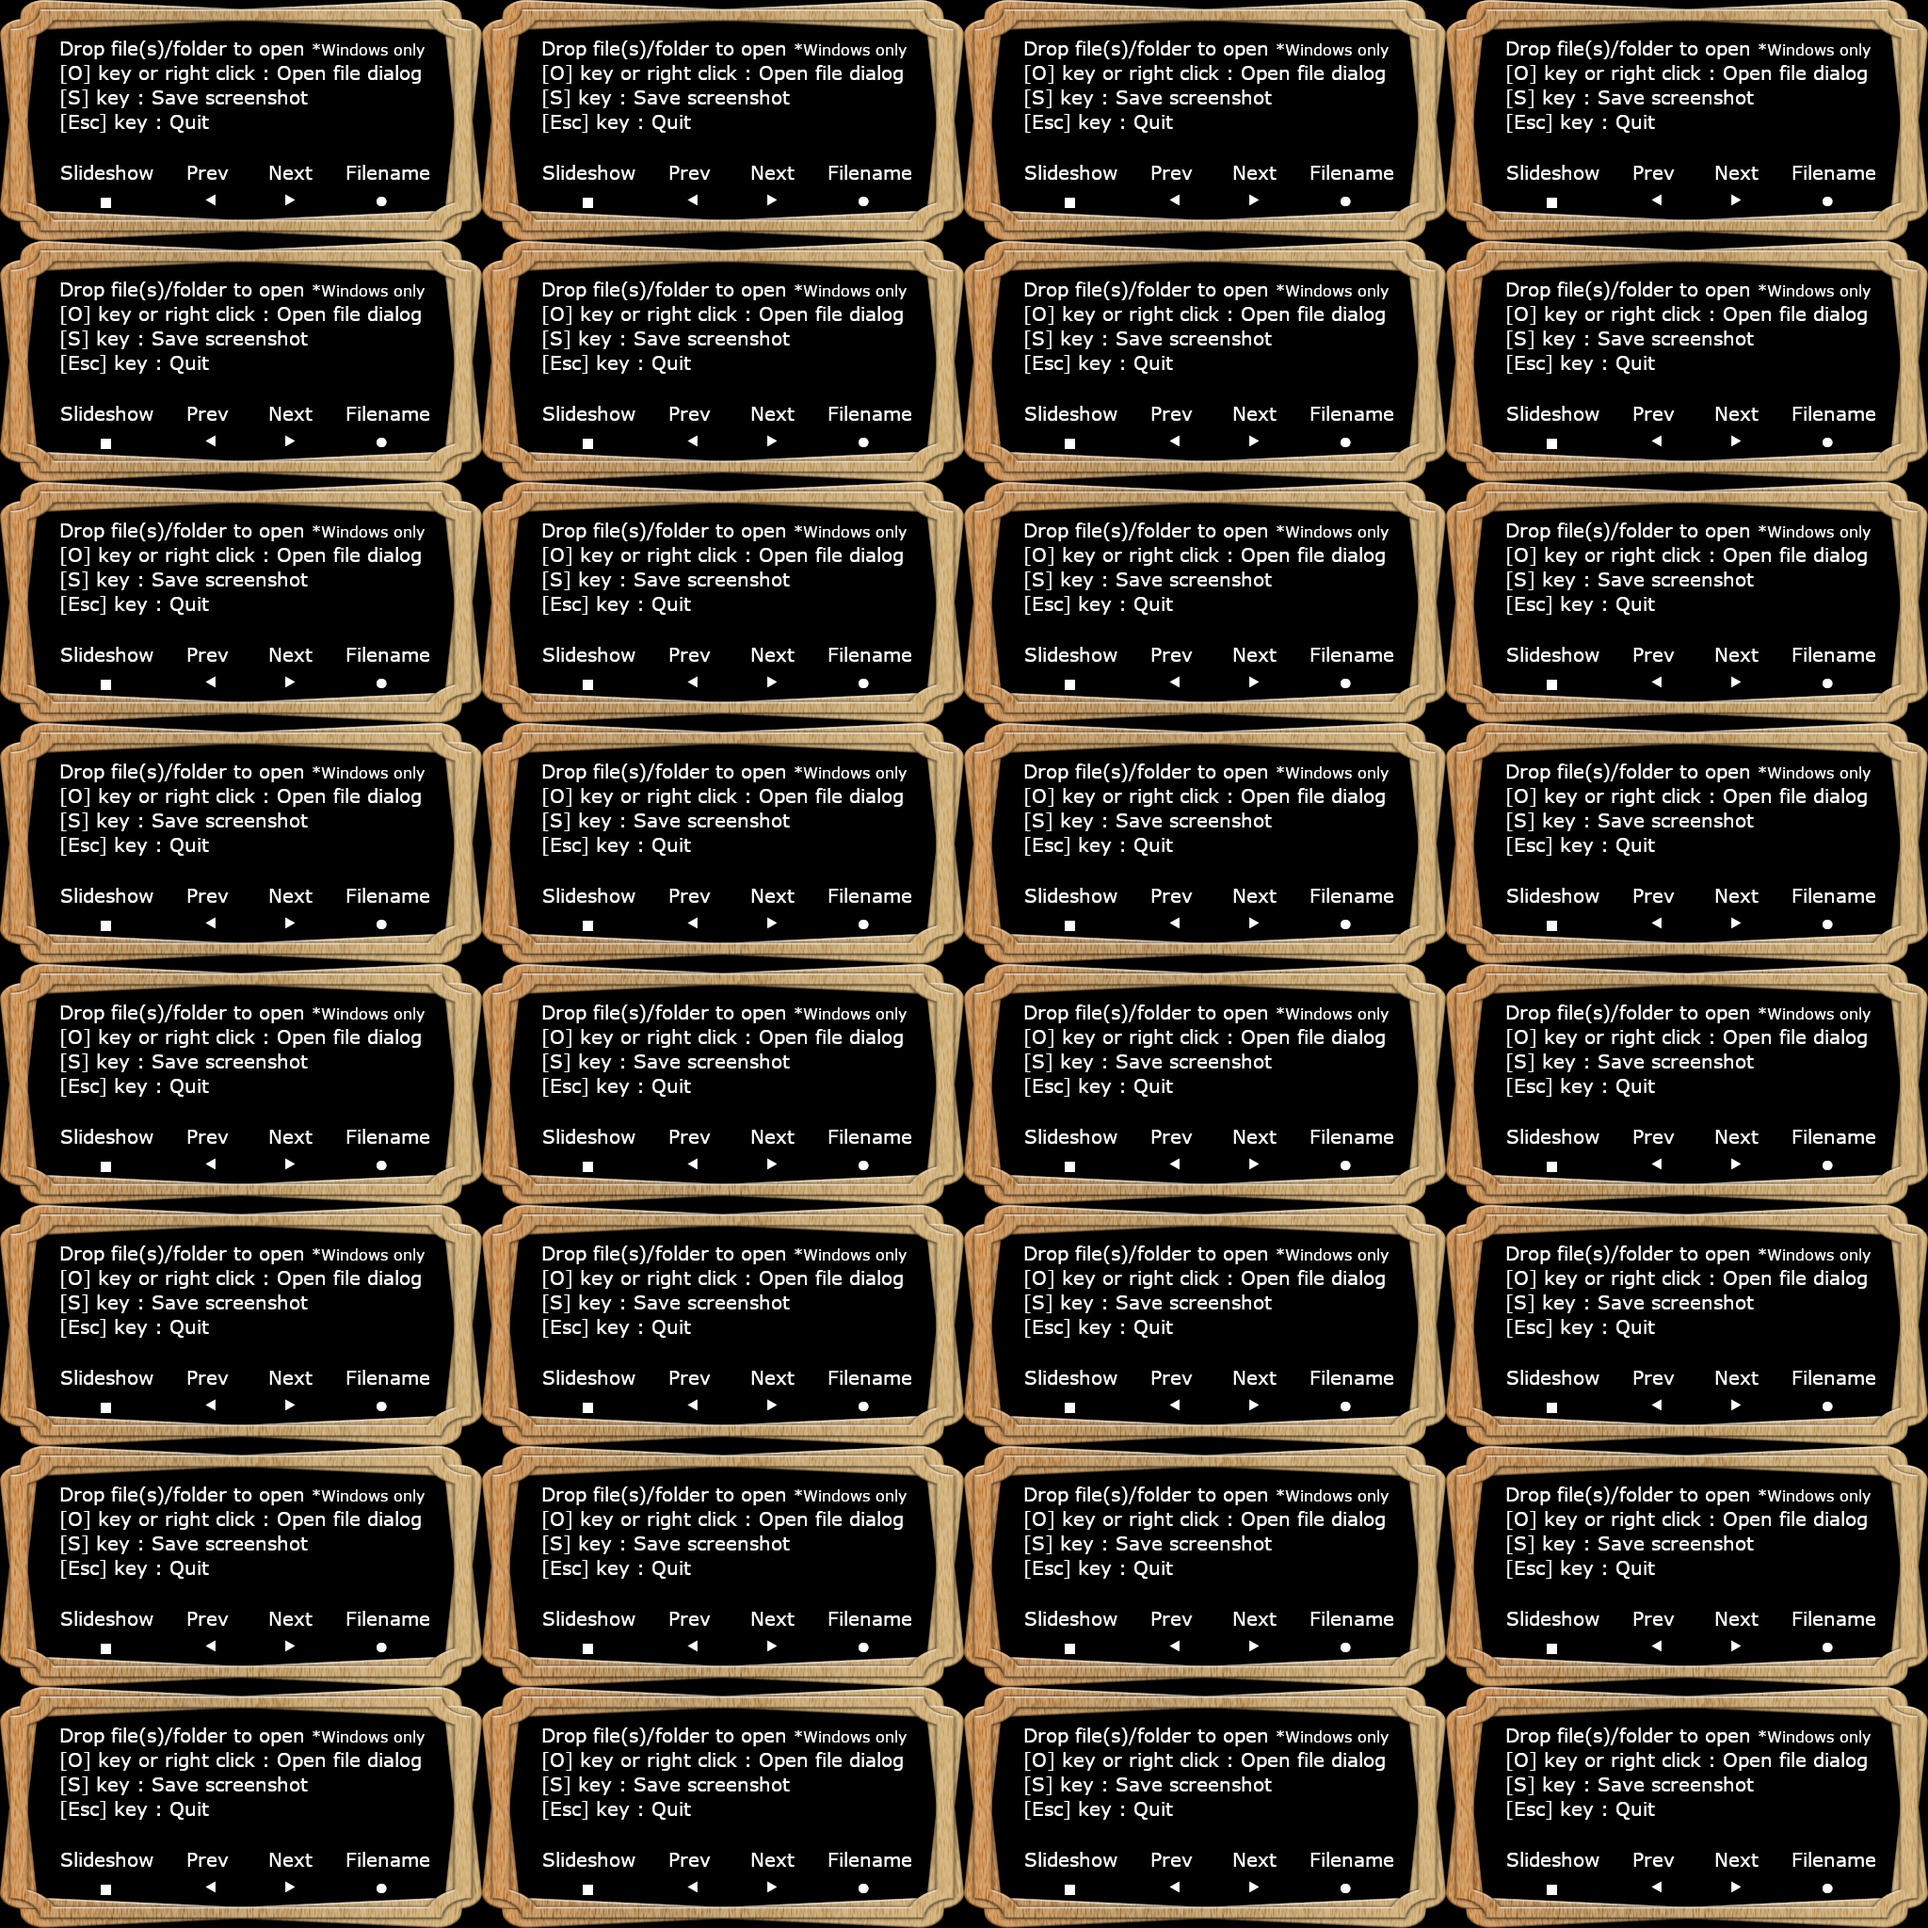
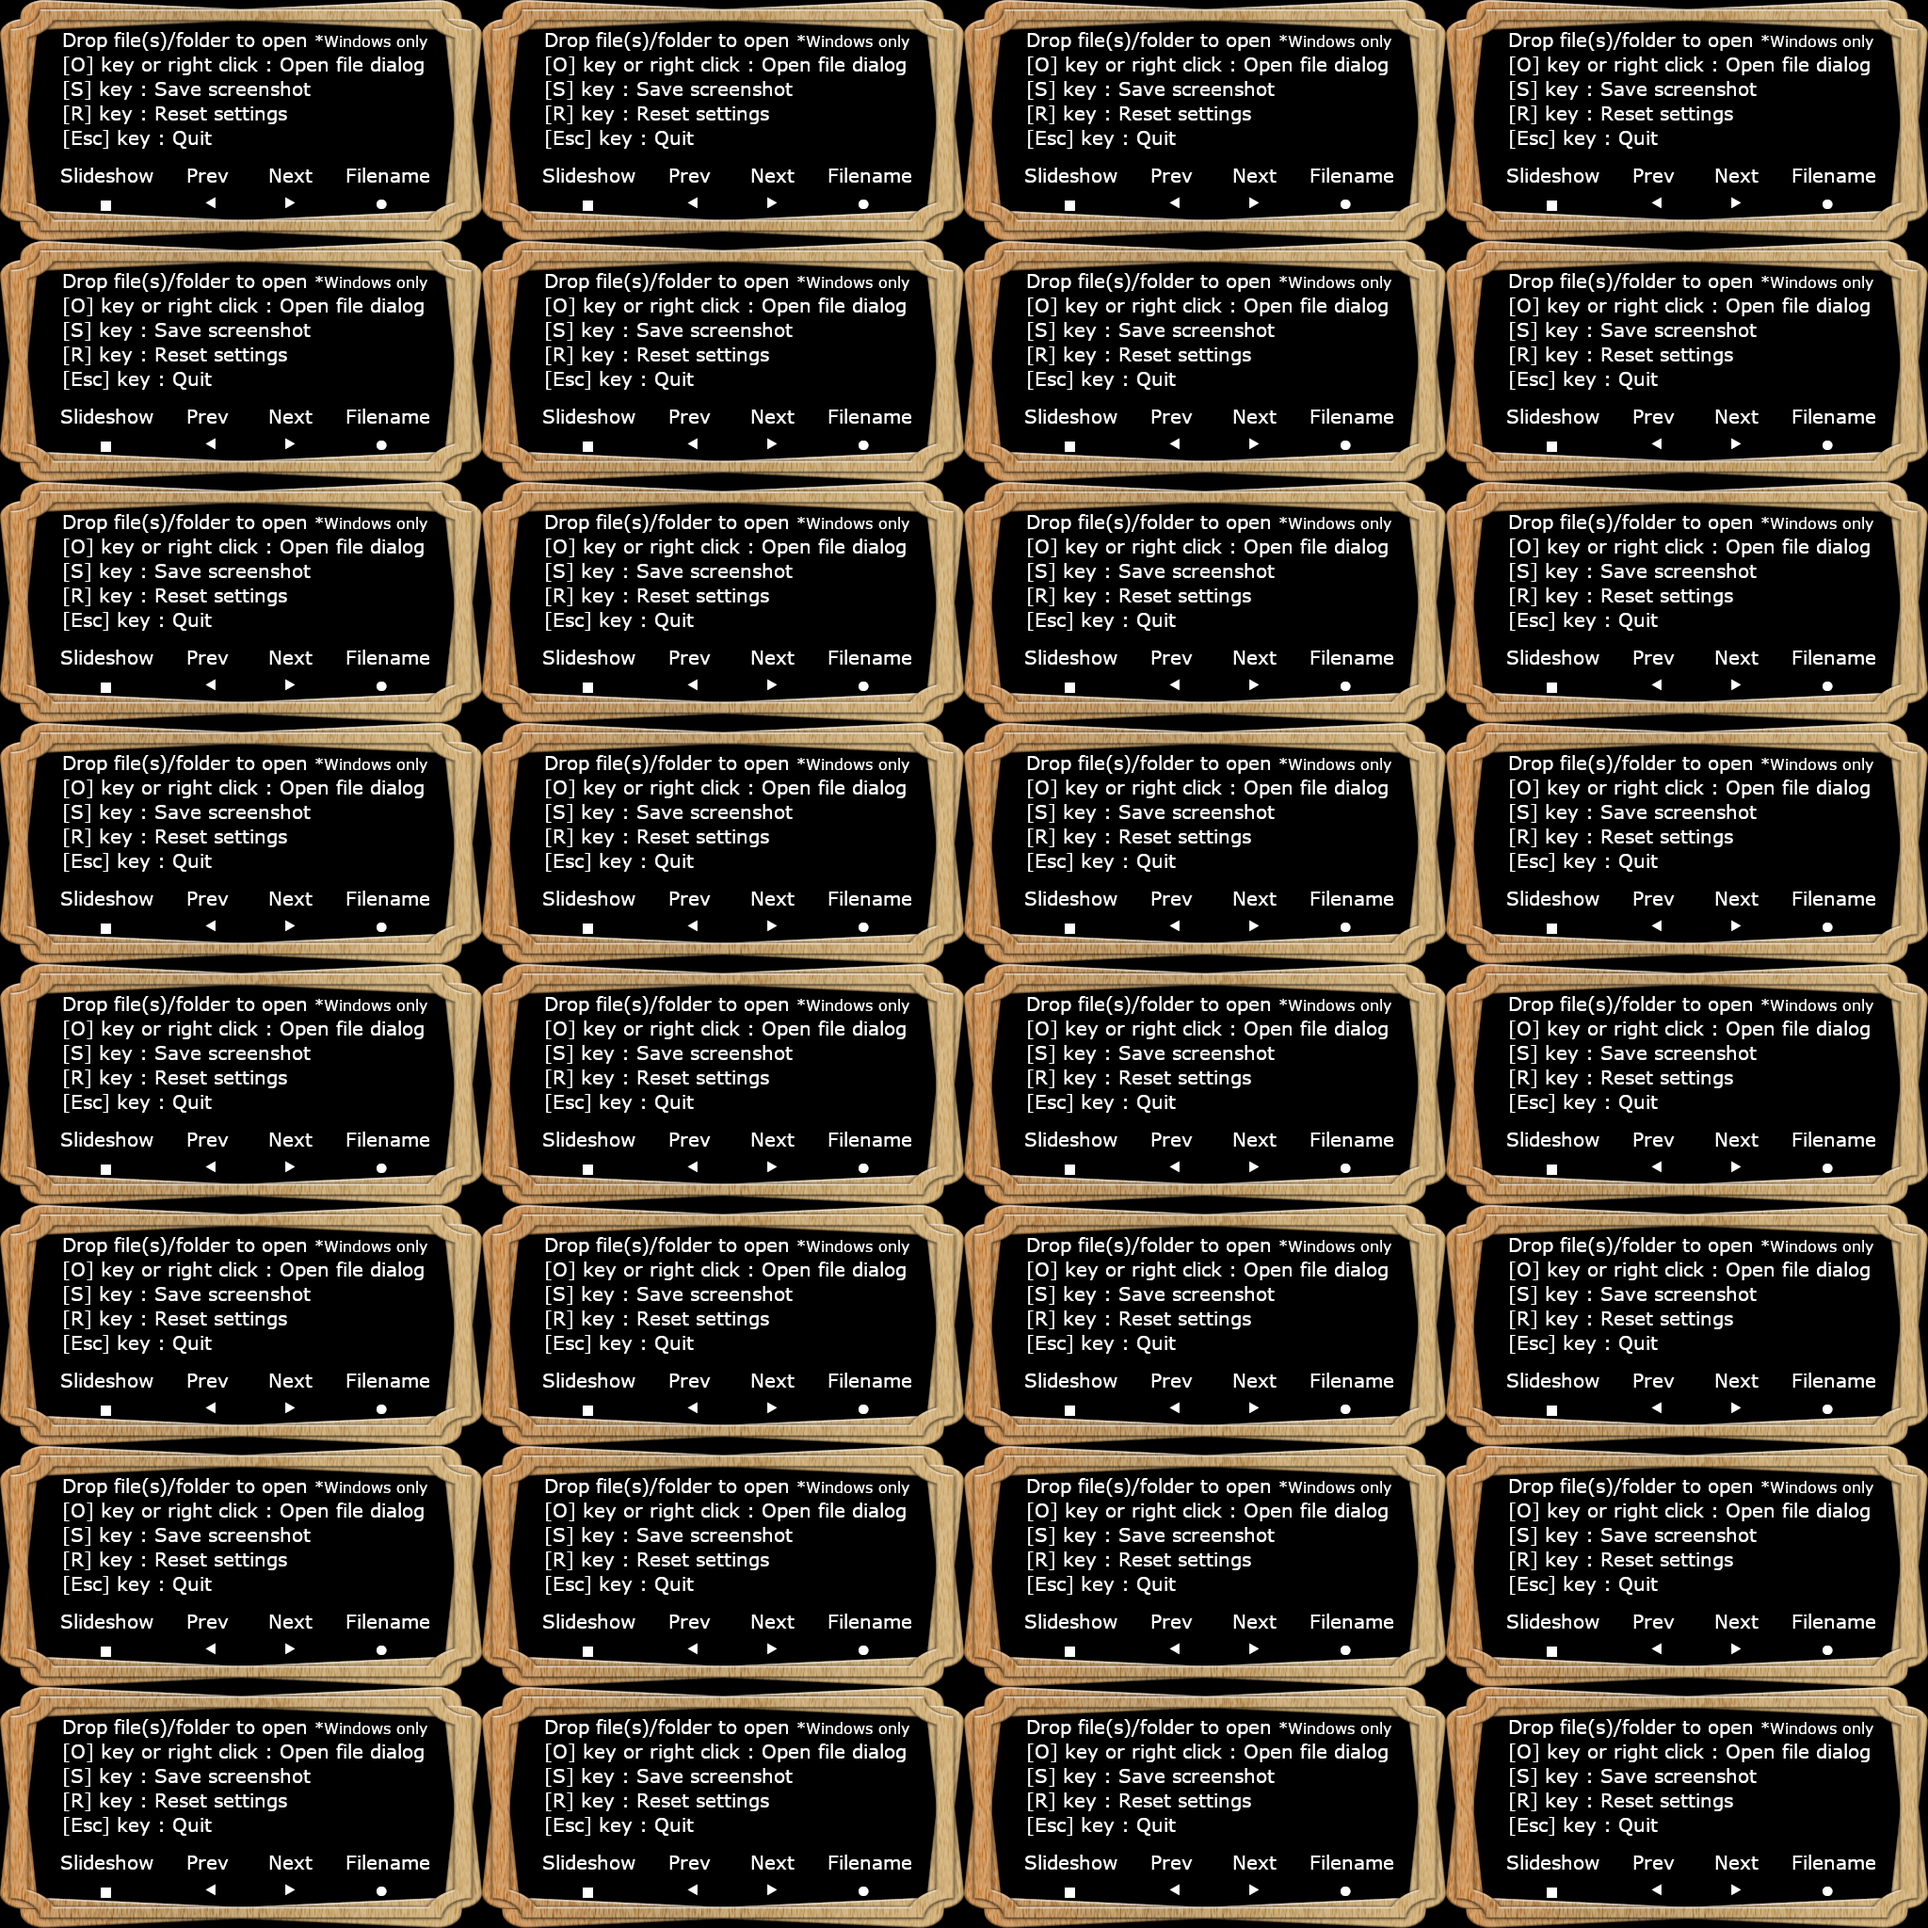
画像が存在しなかった時のエラー対応。ファイルが無ければデフォルト画像を開くように。 [R]キーでの設定消去を追加。

diff --git a/Assets/Scripts/QuiltFileLoader.cs b/Assets/Scripts/QuiltFileLoader.cs
@@ -76,7 +76,6 @@ public class QuiltFileLoader : MonoBehaviour
     static readonly string[] imageExtensions = { "png", "jpg", "jpeg", "jfif" };
     static readonly string[] movieExtensions = { "mp4", "webm", "mov", "avi" };
 
-
     /// <summary>
     /// 読み込み待ちならtrueにする
     /// </summary>
@@ -113,6 +112,19 @@ public class QuiltFileLoader : MonoBehaviour
     /// </summary>
     float nextSlideTime = 0f;
 
+    /// <summary>
+    /// これがtrueなら終了時にPlayerPrefsの設定を消去する
+    /// </summary>
+    bool willSettingsReset = false;
+
+    /// <summary>
+    /// デフォルト画像のパス
+    /// </summary>
+    string defaultImagePath
+    {
+        get { return Path.Combine(Application.streamingAssetsPath, "startup.png"); }
+    }
+
 
     /// <summary>
     /// 保存された設定を読み込む
@@ -136,6 +148,14 @@ public class QuiltFileLoader : MonoBehaviour
         PlayerPrefs.SetInt(PrefItems.SlideShowInterval, slideShowInterval);
         PlayerPrefs.SetInt(PrefItems.FileInfoMode, (int)fileInfoMode);
         PlayerPrefs.SetString(PrefItems.StartupFilePath, currentFile);
+    }
+
+    /// <summary>
+    /// 保存されている設定をすべて消去
+    /// </summary>
+    private void DeleteSettings()
+    {
+        PlayerPrefs.DeleteAll();
     }
 
     /// <summary>
@@ -196,17 +216,18 @@ public class QuiltFileLoader : MonoBehaviour
         InitializeTextShadow();
 
         // サンプルの画像を読み込み
-        LoadFile(Path.Combine(Application.streamingAssetsPath, "startup.png"));
+        LoadFile(defaultImagePath);
 
         // メッセージ欄を最初に消去
         ShowMessage("");
         ShowFileInfo("");
 
-        // PlayerPrefsから設定と前回のファイルを読み込み
+        // 保存された設定を読込
         LoadSettings();
 
         // スライドショーが行われるならその間隔を最初に表示
-        if (slideShowInterval > 0) {
+        if (slideShowInterval > 0)
+        {
             ShowMessage("Slideshow: " + slideShowInterval + " s");
         }
 
@@ -291,6 +312,20 @@ public class QuiltFileLoader : MonoBehaviour
                 SaveFile();
             }
 
+            // [R] キーでPlayerPrefsに保存された設定を消去し、デフォルトの画像を表示
+            if (Input.GetKeyDown(KeyCode.R))
+            {
+                DeleteSettings();
+
+                // デフォルトの画像を読み込み
+                LoadFile(defaultImagePath);
+
+                // 終了時に削除されるようにする
+                ShowFileInfo("History has been removed");
+                ShowMessage("Settings will be reset on quit");
+                willSettingsReset = true;
+            }
+
             // 前の画像
             if (Input.GetKeyDown(KeyCode.LeftArrow))
             {
@@ -364,7 +399,12 @@ public class QuiltFileLoader : MonoBehaviour
     /// </summary>
     private void OnApplicationQuit()
     {
-        SaveSettings();
+        if (willSettingsReset)
+        {
+            DeleteSettings();
+        }else { 
+            SaveSettings();
+        }
     }
 
     /// <summary>
@@ -577,6 +617,7 @@ public class QuiltFileLoader : MonoBehaviour
     /// <param name="uri">Path.</param>
     private void LoadFile(string path) {
         if (string.IsNullOrEmpty(path)) return;
+        if (!File.Exists(path)) return;
 
         isLoading = true;
         currentFile = path;
@@ -800,9 +841,19 @@ public class QuiltFileLoader : MonoBehaviour
             string directory = Path.GetDirectoryName(currentFile);
             files = new List<string>();
             AddTargetDirectory(directory, ref files);   // ディレクトリ内の画像一覧を取得
-            files.Sort();   // パスの順に並び替え
-            currentIndex = files.IndexOf(currentFile);
-            //Debug.Log("Index: " + currentIndex);
+
+            if (files.Count < 1)
+            {
+                // ファイルが全く無かった場合はデフォルト画像を読込み
+                files.Add(defaultImagePath);
+                currentIndex = 0;
+            }
+            else
+            {
+                files.Sort();   // パスの順に並び替え
+                currentIndex = files.IndexOf(currentFile);
+                //Debug.Log("Index: " + currentIndex);
+            }
         }
 
         int index = currentIndex + step;
